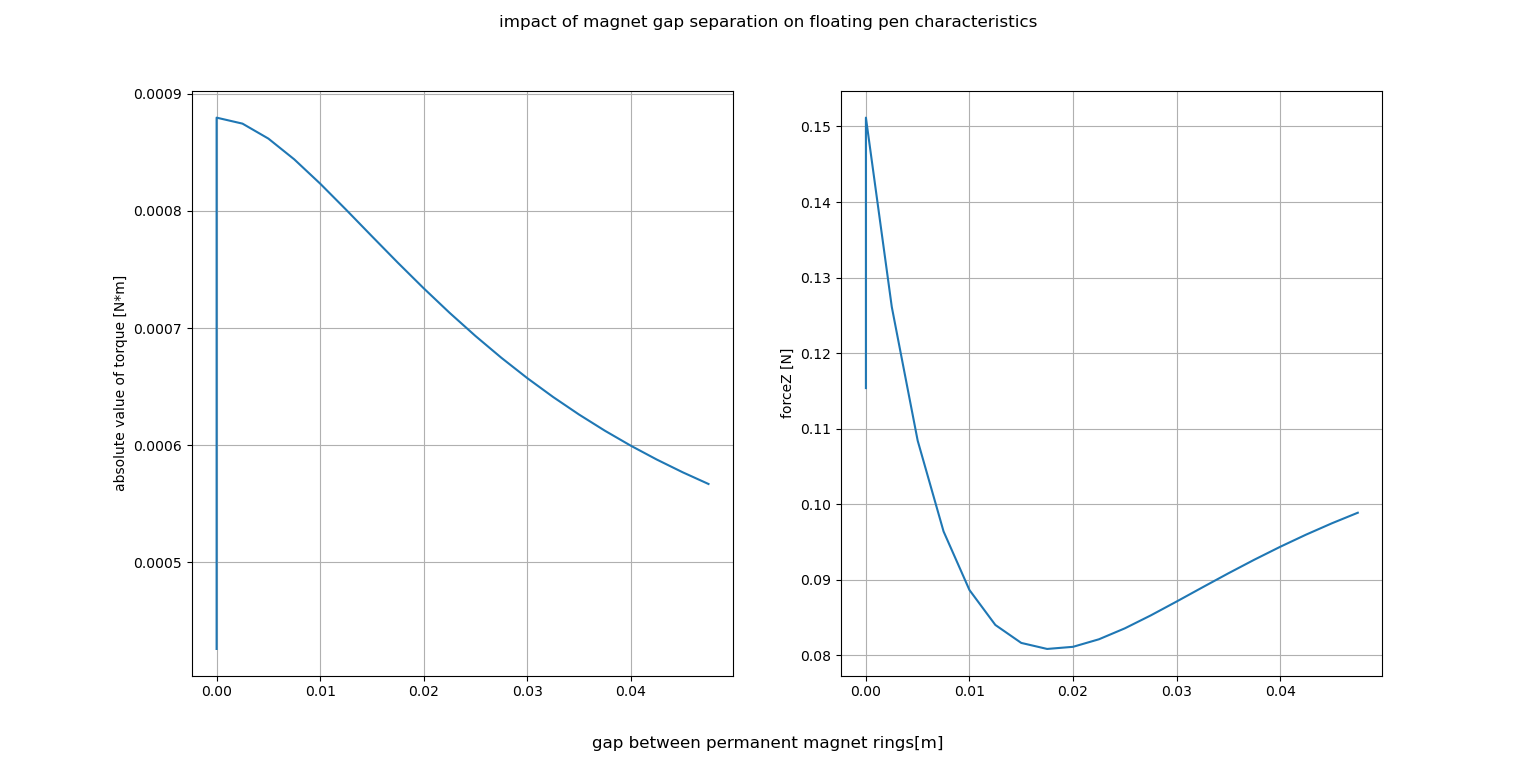
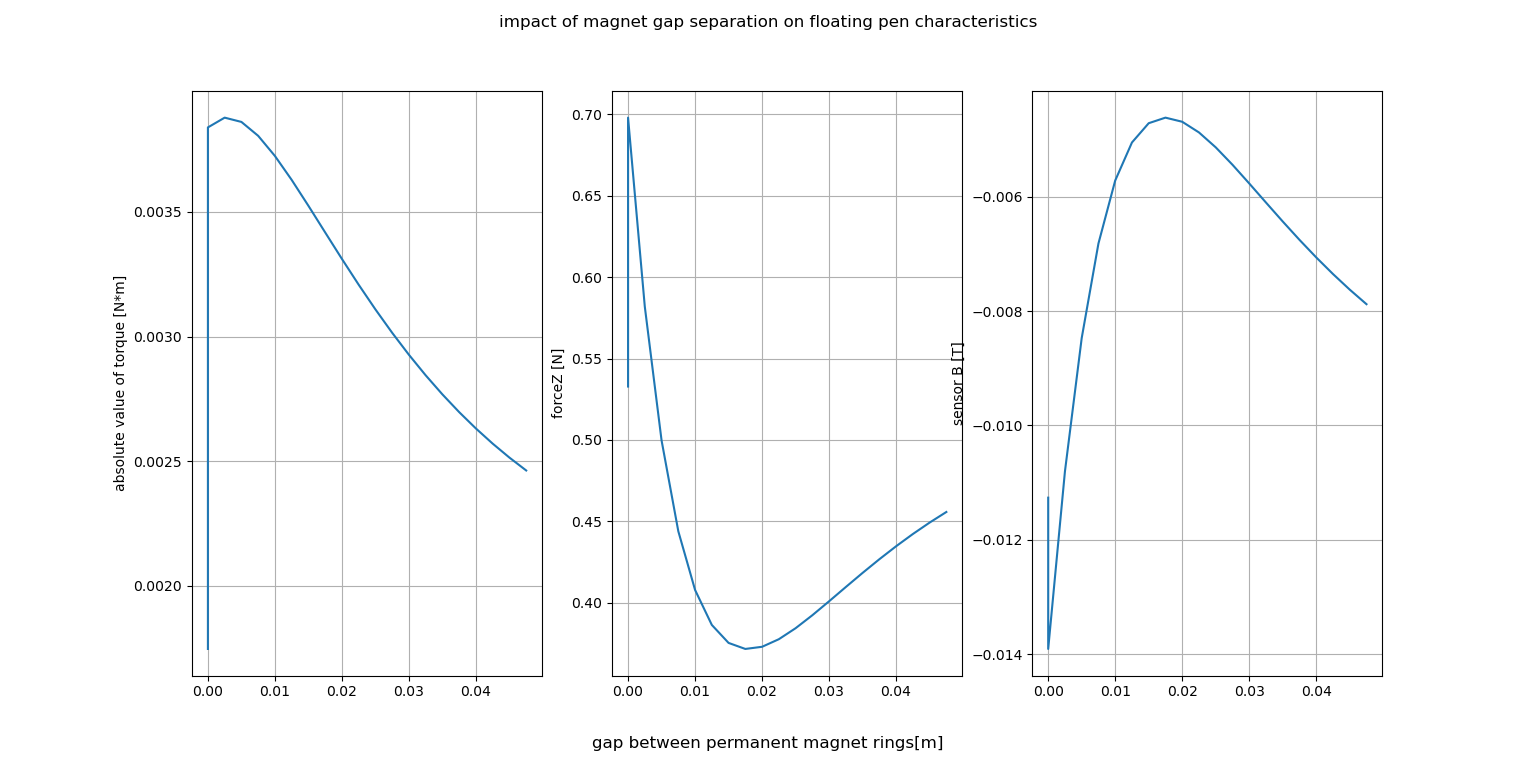
update with IRL parameters

diff --git a/background/magneticForceOnMagnet.py b/background/magneticForceOnMagnet.py
@@ -13,7 +13,7 @@ MAGNET_H = 0.01
 MAGNET_D = 0.005
 
 class magnetRing:
-    def __init__(self, diameter, angle, zPos, numMagnets):
+    def __init__(self, diameter, angle, zPos, numMagnets, magnetization = 1.6e6): # for default use the old silver magnets
         # diameter = diameter of 
         # angle = angle of magnets in ring. Positive means outwards (assuming vector going 'up'). In radians
         # zPos = z displacement of the ring
@@ -26,9 +26,10 @@ class magnetRing:
         self.mCol = magpy.Collection()
         for lv1 in range(numMagnets):
             theta = lv1*2*math.pi/numMagnets
+            
             self.mCol.add(
                 magpy.magnet.Cylinder(
-                    polarization = (0,0,1),
+                    magnetization = (0,0,magnetization),
                     dimension = (MAGNET_H, MAGNET_D),
                     position = (self.diameter/2, 0, self.zPos),
                     orientation = R.from_rotvec((0, self.angle, 0), degrees = True)
@@ -128,14 +129,17 @@ def experiment1(showPlots = True):
     return
 
 def experiment2(showPlot = True):
-    hoverHeight = 0.0025 + +MAGNET_D + 0.0105
+    magnetization = 1.6e6 #use this for floating pen for now?
+    # hoverHeight = 0.0025 + MAGNET_D + 0.0105
+    hoverHeight = MAGNET_H/2 + 0.005 + 0.0105 + MAGNET_H/2
+    # hover height as a MASSIVE impact on stability... if lower, then best to have gap. If higher no good to have gap
     penMagnet1 = magpy.magnet.Cylinder(
-        polarization=(0,0,1), dimension=(MAGNET_H, MAGNET_D), position = (0, 0.00, hoverHeight),
+        magnetization=(0,0,magnetization), dimension=(MAGNET_H, MAGNET_D), position = (0, 0.00, hoverHeight),
         orientation = R.from_rotvec((0, 15, 0), degrees = True))
     penMagnet1.meshing = 15
 
-    magnetRing1 = magnetRing(0.06, 0, 0, 12)
-    magnetRing2 = magnetRing(0.06, 0, -0.02, 12)
+    magnetRing1 = magnetRing(0.06, 0, 0, 14)
+    magnetRing2 = magnetRing(0.06, 0, -0.02, 14)
     c = magnetRing1.mCol + magnetRing2.mCol
     # c.show()
 
@@ -151,10 +155,10 @@ def experiment2(showPlot = True):
     for lv1 in range(20):
         gap = 0.001*lv1
         penMagnet2 = magpy.magnet.Cylinder(
-            polarization=(0,0,1), dimension=(MAGNET_H, MAGNET_D), position = (0, 0.00, hoverHeight + MAGNET_D + gap),
+            magnetization=(0,0,magnetization), dimension=(MAGNET_H, MAGNET_D), position = (0, 0.00, hoverHeight + MAGNET_D + gap),
             # orientation = R.from_rotvec((0, 15, 0), degrees = True)
             )
-        penMagnet2.rotate_from_angax(angle = 15, axis = 'y', anchor = (0, 0, 0.014), degrees = True)
+        penMagnet2.rotate_from_angax(angle = 15, axis = 'y', anchor = (0, 0, hoverHeight), degrees = True)
         penMagnet2.meshing = 15
         F2, T2 = getFT(c, penMagnet2)
         Ft = F1 + F2
@@ -187,24 +191,26 @@ def experiment2(showPlot = True):
     # pl.show()
 
 def experiment3(showPlot = True):
+    magnetization = 1.6e6 #use this for floating pen for now?
+
     hoverHeight = MAGNET_H/2 + 0.005 + 0.0105 + MAGNET_H/2# half magnet (datum is mid of 1st magnet ring) + thickness of plastic + hover height measured from plastic + half magnet
     penMagnet1 = magpy.magnet.Cylinder(
-        polarization=(0,0,1), dimension=(MAGNET_H, MAGNET_D), position = (0, 0.00, hoverHeight),
+        magnetization=(0,0,magnetization), dimension=(MAGNET_H, MAGNET_D), position = (0, 0.00, hoverHeight),
         orientation = R.from_rotvec((0, 15, 0), degrees = True)
         )
     penMagnet2 = magpy.magnet.Cylinder(
-        polarization=(0,0,1), dimension=(MAGNET_H, MAGNET_D), position = (0, 0.00, hoverHeight + MAGNET_D),
+        magnetization=(0,0,magnetization), dimension=(MAGNET_H, MAGNET_D), position = (0, 0.00, hoverHeight + MAGNET_D),
         )
-    penMagnet2.rotate_from_angax(angle = 15, axis = 'y', anchor = (0, 0, 0.014), degrees = True)
+    penMagnet2.rotate_from_angax(angle = 15, axis = 'y', anchor = (0, 0, hoverHeight), degrees = True)
     penMagnet1.meshing = 15
     penMagnet2.meshing = 15
 
-    magnetRing1 = magnetRing(0.06, 0, 0, 12)
-    magnetRing2 = magnetRing(0.06, 0, -0.02, 12)
+    magnetRing1 = magnetRing(0.06, 0, 0, 14)
+    magnetRing2 = magnetRing(0.06, 0, -0.02, 14)
     c1 = magnetRing1.mCol + magnetRing2.mCol
     # c1.show()
 
-    magnetRing3 = magnetRing(0.06, 0, 0, 12)
+    magnetRing3 = magnetRing(0.06, 0, 0, 14)
     c2 = magnetRing3.mCol
     # c2.show()
 
@@ -226,23 +232,29 @@ def experiment3(showPlot = True):
         'gap': [],
         'torque': [],
         'forceZ': [],
+        'sensorZ': [],
     }
     # first base case of just 1 magnet ring
     F3, T3 = getFT(c2, penMagnet1) + getFT(c2, penMagnet2)
+    _,_,Bz = magpy.getB(c2, [0,0,sensorZPos])
     expVals['gap'].append(0)
     expVals['torque'].append(abs(T3[1]))
     expVals['forceZ'].append(F3[2])
+    expVals['sensorZ'].append(Bz)
     for lv1 in range(20):
         zPos = MAGNET_D + 0.0025*lv1
-        magnetRing4 = magnetRing(0.06, 0, -zPos, 12)
+        magnetRing4 = magnetRing(0.06, 0, -zPos, 14)
         c3 = magnetRing4.mCol # may need override_parent = True    
         c3.add(magnetRing1.mCol, override_parent = True)
         F3, T3 = getFT(c3, penMagnet1) + getFT(c3, penMagnet2) 
         expVals['gap'].append(zPos - MAGNET_D)
         expVals['torque'].append(abs(T3[1]))
         expVals['forceZ'].append(F3[2])
+        _,_,Bz = magpy.getB(c3, [0,0,sensorZPos])
+        expVals['sensorZ'].append(Bz)
+
     # print(expVals['gap'], expVals['torque'])
-    fig, axs = plt.subplots(1,2)
+    fig, axs = plt.subplots(1,3)
     # print(expVals['gap'])
     # print(expVals['torque'])
     axs[0].plot(expVals['gap'], expVals['torque'])
@@ -251,23 +263,56 @@ def experiment3(showPlot = True):
     axs[1].plot(expVals['gap'], expVals['forceZ'])
     axs[1].set_ylabel('forceZ [N]')
     axs[1].grid()
+    axs[2].plot(expVals['gap'], expVals['sensorZ'])
+    axs[2].set_ylabel('sensor B [T]')
+    axs[2].grid()
+
     fig.supxlabel('gap between permanent magnet rings[m]')
     fig.suptitle('impact of magnet gap separation on floating pen characteristics')
     plt.show()
 
+def experiment5(showPlot = True):
+    
+    magnetization = 1.6e6 #use this for floating pen for now?
+
+    hoverHeight = MAGNET_H/2 + 0.005 + 0.0105 + MAGNET_H/2# half magnet (datum is mid of 1st magnet ring) + thickness of plastic + hover height measured from plastic + half magnet
+    penMagnet1 = magpy.magnet.Cylinder(
+        magnetization=(0,0,magnetization), dimension=(MAGNET_H, MAGNET_D), position = (0, 0.00, hoverHeight),
+        orientation = R.from_rotvec((0, 15, 0), degrees = True)
+        )
+    penMagnet2 = magpy.magnet.Cylinder(
+        magnetization=(0,0,magnetization), dimension=(MAGNET_H, MAGNET_D), position = (0, 0.00, hoverHeight + MAGNET_D),
+        )
+    penMagnet2.rotate_from_angax(angle = 15, axis = 'y', anchor = (0, 0, 0.014), degrees = True)
+    penMagnet1.meshing = 15
+    penMagnet2.meshing = 15
+
+    magnetRing1 = magnetRing(0.06, 0, 0, 12)
+    magnetRing2 = magnetRing(0.06, 0, -0.02, 12)
+    c1 = magnetRing1.mCol + magnetRing2.mCol
+    # c1.show()
+
+    magnetRing3 = magnetRing(0.06, 0, 0, 12)
+    c2 = magnetRing3.mCol
+    # c2.show()
+
+    F2, T2 = getFT(c2, penMagnet1) + getFT(c2, penMagnet2) 
+    F1, T1 = getFT(c1, penMagnet1) + getFT(c1, penMagnet2) 
+    print('forces', '2 rings', F1, '1 ring', F2)
+    print('torques', '2 rings', T1, '1 ring', T2)
 
 def main():
     # validateSuperposition
     # experiment1()
 
     # test for strength of permanent magnets
-    experiment4()
+    # experiment4()
 
     # validate stability of floating pen based on separation of floating magnets
-    # experiment2()
+    experiment2()
 
     # what does the 2nd ring do?
-    # experiment3()
+    experiment3()
     
     # compare 2 rings vs 1 stronger ring assuming approx same vertical force on magnet
     
